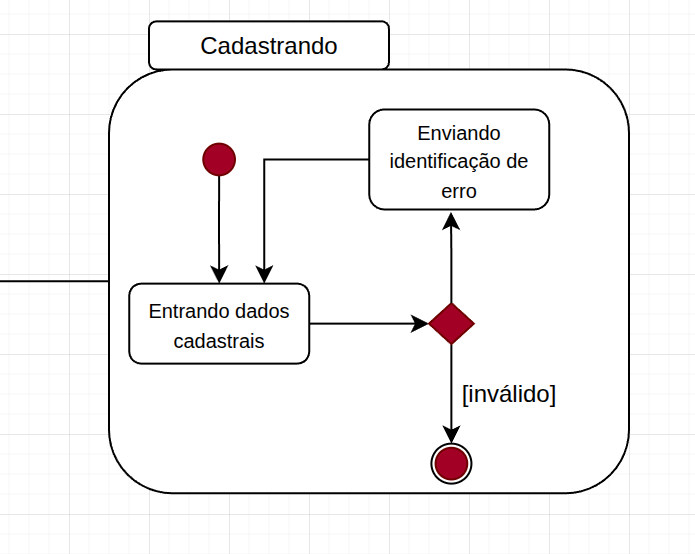
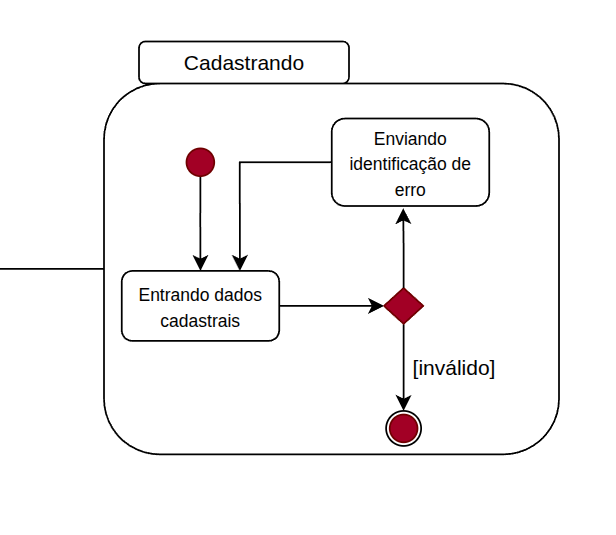
add: imagens

Changed region(s): [[0.0, 0.0299, 0.9253, 0.8972]]

diff --git a/docs/Modelagem/2.2.2.DiagramaDeEstados.md b/docs/Modelagem/2.2.2.DiagramaDeEstados.md
@@ -173,6 +173,7 @@ Por fim, a utilização do diagrama de estados fortalece o processo de desenvolv
 > <a href="https://www.facom.ufu.br/~abdala/DAS5312/Diagrama%20de%20Estados.pdf">[2]</a> ABDALA, Daniel Duarte. *Diagrama de Estados*. Universidade Federal de Uberlândia (UFU). Disponível em: https://www.facom.ufu.br/~abdala/DAS5312/Diagrama%20de%20Estados.pdf. Acesso em: 23 abr. 2026.
 
 
-| Versão | Data       | Descrição                                                                                                      | Autor(es)                                          | Revisor(es)                                          |
-| ------ | ---------- | -------------------------------------------------------------------------------------------------------------- | -------------------------------------------------- | ---------------------------------------------------- |
-| 1.0    | 23/04/2026 | Criação do arquivo, introdução e objetivo.                                                            | [Eduarda Rodrigues](https://github.com/eduardar0) |     |
+| Versão | Data       | Descrição                                                                         | Autor(es)                                          | Revisor(es)                                          |
+| ------ | ---------- | --------------------------------------------------------------------------------- | -------------------------------------------------- | ---------------------------------------------------- |
+| 1.0    | 23/04/2026 | Criação do arquivo, introdução e objetivo.                                        | [Eduarda Rodrigues](https://github.com/eduardar0) | —                                                    |
+| 1.1    | 23/04/2026 | Criação do diagrama e documento.                                                  | [Eduarda Rodrigues](https://github.com/eduardar0),  [Yasmim Moreira](https://github.com/Yasm1nNasc1mento) | [Leticia Maria](https://github.com/leticialopes20) | 
